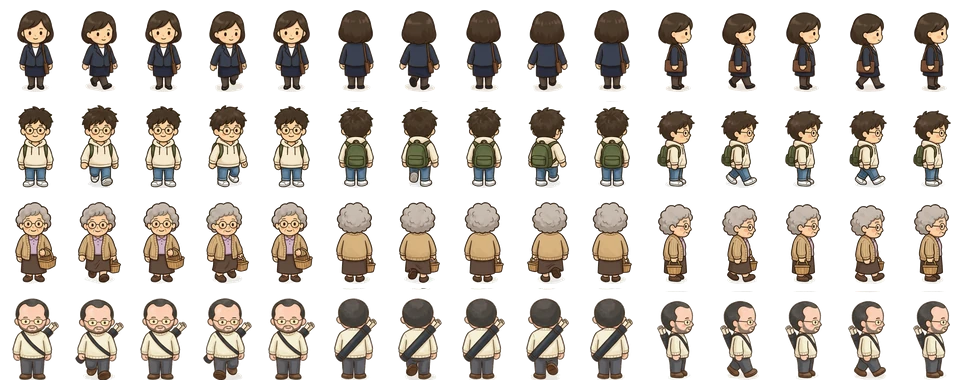
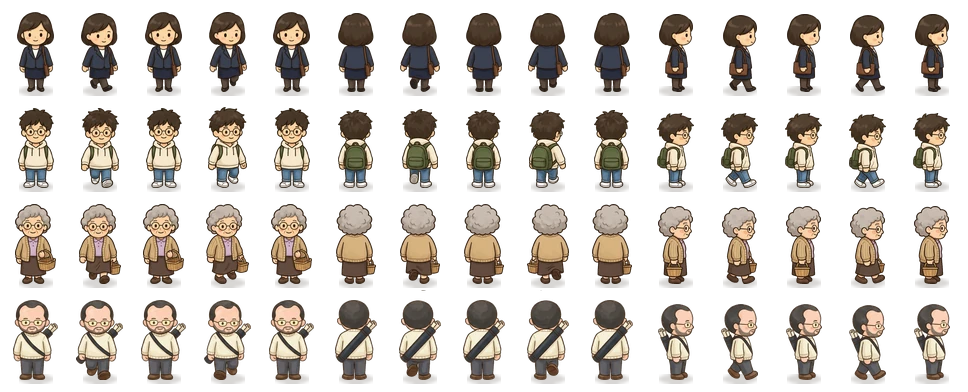
Герои на карте: чистая вырезка без белой каймы и пятен, своя тень под ногами
Claude-Session: https://claude.ai/code/session_01DHEiVcyPj9Qv6m6TjqeSZK

diff --git a/scripts/pack_heroes.py b/scripts/pack_heroes.py
@@ -2,7 +2,7 @@
 
 Исходник — лист 3×3 из Magnific (art-src/v2/heroes/sheet-<id>.png): ряды — спереди, сзади, сбоку вправо;
 в ряду — стоит, шаг, другой шаг. Скрипт снимает белый фон, режет девять фигур, масштабирует под жителей
-(рост 82 px в 2×, стопы на 84) и собирает src/game/art/heroes.webp в раскладке людей:
+(рост 80 px в 2×, стопы на 84; своя тень под ногами) и собирает src/game/art/heroes.webp в раскладке людей:
 ряд — герой, 15 кадров (вниз, вверх, вправо × стоит + 4 фазы шага), ячейка 32×48 (1×).
 Фазы шага: 1 — шаг, 2 — стоит, 3 — другой шаг, 4 — стоит.
 
@@ -12,23 +12,40 @@ from pathlib import Path
 
 import cv2
 import numpy as np
-from PIL import Image
+from PIL import Image, ImageDraw, ImageFilter
 
 ROOT = Path(__file__).resolve().parent.parent
 SRC = ROOT / 'art-src' / 'v2' / 'heroes'
 OUT = ROOT / 'src' / 'game' / 'art' / 'heroes.webp'
 HEROES = ['marina', 'lesha', 'zinaida', 'architect']  # порядок рядов = HERO_ORDER в atlas.ts
-CELL_W, CELL_H, HEIGHT, FEET = 56, 88, 82, 84
+CELL_W, CELL_H, HEIGHT, FEET = 56, 88, 80, 84
 
 
 def cutout(rgb: np.ndarray) -> np.ndarray:
-    """Белый фон, связанный с краями, — в прозрачность, с мягким краем"""
-    light = (rgb.min(axis=2) > 232).astype(np.uint8)
+    """Фон и нарисованная моделью светлая тень под ногами — в прозрачность (тень рисуем свою, как у жителей).
+    Светлое и почти серое, связанное с краями, — фон; край смягчаем."""
+    f = rgb.astype(np.int16)
+    sat = f.max(axis=2) - f.min(axis=2)
+    light = ((f.min(axis=2) > 196) & (sat < 26)).astype(np.uint8)
     _, lab = cv2.connectedComponents(light)
     edge = set(np.unique(np.concatenate([lab[0], lab[-1], lab[:, 0], lab[:, -1]]))) - {0}
     bg = np.isin(lab, list(edge))
+    # Белая кайма по контуру: ещё на пиксель внутрь, если он светлый
+    ring = cv2.dilate(bg.astype(np.uint8), np.ones((3, 3), np.uint8)).astype(bool) & ~bg
+    bg |= ring & (f.min(axis=2) > 180)
     a = cv2.GaussianBlur((~bg).astype(np.float32), (3, 3), 0)
-    return np.dstack([rgb, (np.clip(a * 1.3, 0, 1) * 255).astype(np.uint8)])
+    a[bg] = 0
+    return np.dstack([rgb, (np.clip(a * 1.6, 0, 1) * 255).astype(np.uint8)])
+
+
+def shadow(atlas: Image.Image, cx: int, feet: int, w: int) -> None:
+    """Мягкая тень под ногами — как у остальных жителей"""
+    sh = Image.new('L', (w, 10), 0)
+    ImageDraw.Draw(sh).ellipse((0, 0, w - 1, 9), fill=46)
+    sh = sh.filter(ImageFilter.GaussianBlur(1.6))
+    layer = Image.new('RGBA', sh.size, (40, 30, 20, 0))
+    layer.putalpha(sh)
+    atlas.alpha_composite(layer, (cx - w // 2, feet - 6))
 
 
 def figures(sheet: np.ndarray) -> list[list[np.ndarray]]:
@@ -58,9 +75,10 @@ def main() -> None:
                 im = im.resize((max(1, round(im.width * k)), max(1, round(im.height * k))), Image.LANCZOS)
                 if im.width > CELL_W:
                     im = im.resize((CELL_W, round(im.height * CELL_W / im.width)), Image.LANCZOS)
-                x = (4 + (f * 5 + phase) * 32) * 2 + (CELL_W - im.width) // 2
+                x0 = (4 + (f * 5 + phase) * 32) * 2
                 y = (4 + row * 48) * 2 + FEET - im.height
-                atlas.alpha_composite(im, (x, max(0, y)))
+                shadow(atlas, x0 + CELL_W // 2, (4 + row * 48) * 2 + FEET, 34)
+                atlas.alpha_composite(im, (x0 + (CELL_W - im.width) // 2, max(0, y)))
     atlas.save(OUT, 'WEBP', quality=90, alpha_quality=100, method=6)
     print('ok', atlas.size)
 
